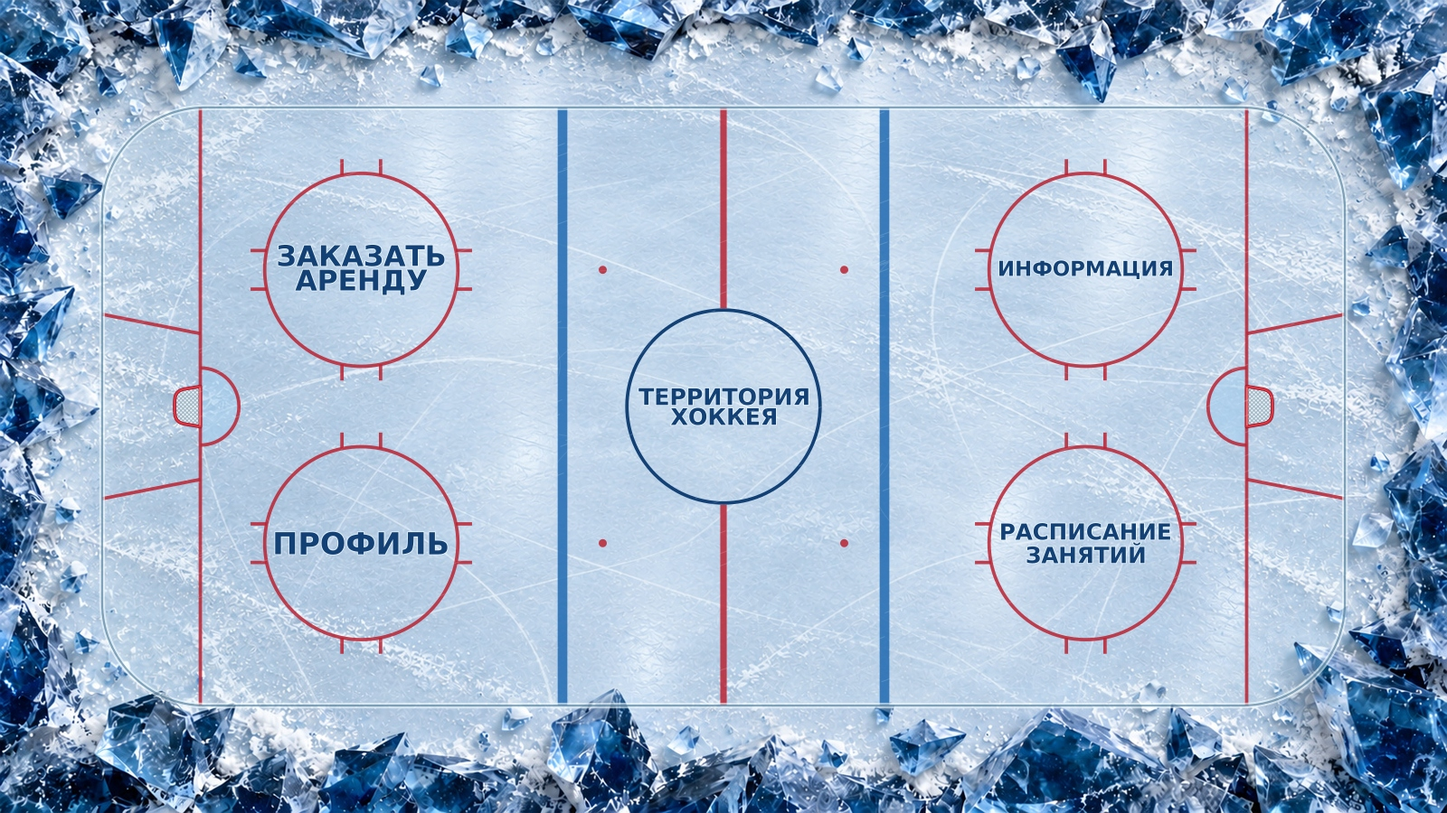
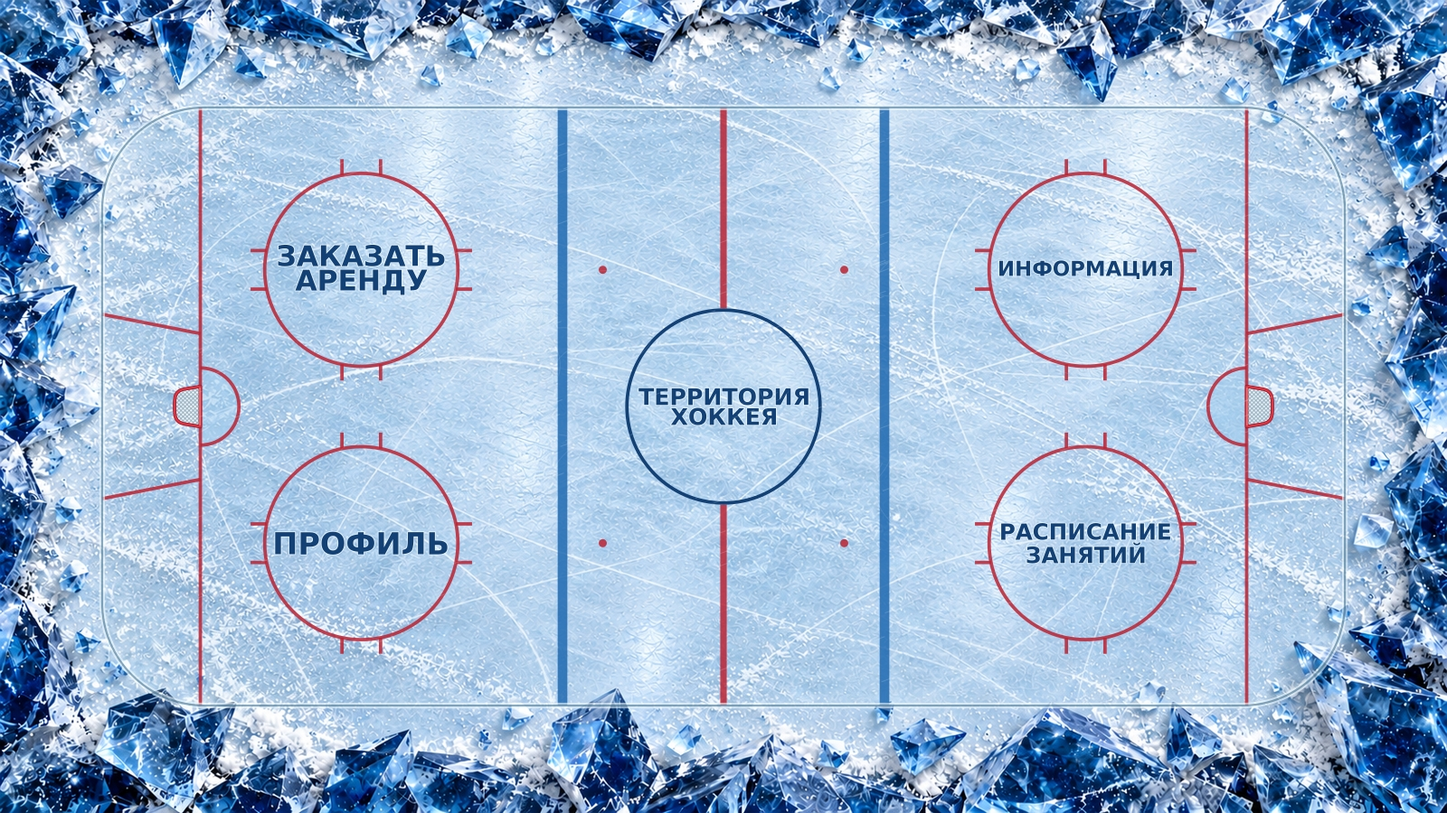
Finish hockey menu with club emblems, photo sticks and smoother rendering

diff --git a/COURSE_3/EP_TPaD_DB/App_C#/App/HeaderDrawing.cs b/COURSE_3/EP_TPaD_DB/App_C#/App/HeaderDrawing.cs
@@ -6,10 +6,17 @@ namespace LP_PopovD_App
     {
         internal static void Draw(Graphics g)
         {
+            // Эмблемы и флаги лежат на одной горизонтальной оси (Y = 60).
+            string[] left = { "Salavat", "Tolpar", "Agidel", "Astra", "Azamatov" };
+            string[] right = { "Cska", "Ska", "Spartak", "Avangard", "AkBars" };
+            for (int i = 0; i < left.Length; i++)
+            {
+                DrawClub(g, left[i], 112 + i * 110);
+                DrawClub(g, right[i], 1048 + i * 110);
+            }
             DrawFlag(g, new RectangleF(632, 28, 106, 64), true);
             DrawFlag(g, new RectangleF(862, 28, 106, 64), false);
-            DrawStick(g, false);
-            DrawStick(g, true);
+            DrawSticks(g);
             using Font title = new("Segoe UI", 42, FontStyle.Bold, GraphicsUnit.Pixel);
             using StringFormat format = new() { Alignment = StringAlignment.Center, LineAlignment = StringAlignment.Center };
             using SolidBrush halo = new(Color.FromArgb(200, 239, 250, 255));
@@ -55,28 +62,42 @@ namespace LP_PopovD_App
             g.DrawRectangle(border, r.X, r.Y, r.Width, r.Height);
         }
 
-        private static void DrawStick(Graphics g, bool mirrored)
+        private static void DrawClub(Graphics g, string name, float centerX)
         {
+            RectangleF plate = new(centerX - 45, 15, 90, 90);
+            using SolidBrush shadow = new(Color.FromArgb(28, 15, 51, 77));
+            using SolidBrush frost = new(Color.FromArgb(236, 250, 253, 255));
+            using Pen border = new(Color.FromArgb(150, 148, 181, 202), 0.8f);
+            g.FillEllipse(shadow, plate.X + 1, plate.Y + 3, plate.Width, plate.Height);
+            g.FillEllipse(frost, plate);
+            g.DrawEllipse(border, plate);
             GraphicsState state = g.Save();
-            if (mirrored) { g.TranslateTransform(1600, 0); g.ScaleTransform(-1, 1); }
-            // Рукоятка сверху, перо снизу; пересекаются именно нижние перья.
-            using Pen shaft = new(Color.FromArgb(30, 42, 52), 5) { StartCap = LineCap.Round, EndCap = LineCap.Round };
-            using Pen edge = new(Color.FromArgb(137, 158, 171), 1);
-            g.DrawLine(shaft, 774, 22, 808, 91);
-            g.DrawLine(edge, 772.7f, 22, 806.7f, 91);
-            using Pen tape = new(Color.FromArgb(224, 233, 239), 1.5f);
-            for (int i = 0; i < 6; i++)
-            {
-                float y = 26 + i * 2.8f, x = 774 + (y - 22) * 34 / 69;
-                g.DrawLine(tape, x - 2, y + 1, x + 2, y - 1);
-            }
-            using GraphicsPath blade = new();
-            blade.AddPolygon(new[] { new PointF(806, 86), new PointF(813, 94),
-                new PointF(783, 108), new PointF(777, 107), new PointF(776, 101) });
-            using SolidBrush rubber = new(Color.FromArgb(23, 34, 43));
-            g.FillPath(rubber, blade);
-            g.DrawPath(edge, blade);
+            using GraphicsPath clip = new();
+            clip.AddEllipse(plate.X + 4, plate.Y + 4, plate.Width - 8, plate.Height - 8);
+            g.SetClip(clip, CombineMode.Intersect);
+            DrawImageFit(g, ArtworkResources.Get(name), new RectangleF(centerX - 39, 21, 78, 78));
             g.Restore(state);
+        }
+
+        private static void DrawSticks(Graphics g)
+        {
+            // Готовая фотография настоящей клюшки. Отражённая пара соприкасается перьями снизу.
+            Image stick = ArtworkResources.Get("HockeyStick");
+            RectangleF bounds = new(750, 8, 100, 100);
+            DrawImageFit(g, stick, bounds);
+            GraphicsState state = g.Save();
+            g.TranslateTransform(1600, 0);
+            g.ScaleTransform(-1, 1);
+            DrawImageFit(g, stick, bounds);
+            g.Restore(state);
+        }
+
+        private static void DrawImageFit(Graphics g, Image image, RectangleF bounds)
+        {
+            float scale = Math.Min(bounds.Width / image.Width, bounds.Height / image.Height);
+            float width = image.Width * scale, height = image.Height * scale;
+            g.DrawImage(image, bounds.X + (bounds.Width - width) / 2,
+                bounds.Y + (bounds.Height - height) / 2, width, height);
         }
     }
 }

diff --git a/COURSE_3/EP_TPaD_DB/App_C#/App/Form1.cs b/COURSE_3/EP_TPaD_DB/App_C#/App/Form1.cs
@@ -20,13 +20,7 @@ namespace LP_PopovD_App
             DoubleBuffered = true;
             KeyPreview = true;
             SetStyle(ControlStyles.ResizeRedraw, true);
-            using Stream? stream = typeof(Form1).Assembly
-                .GetManifestResourceStream("LP_PopovD_App.IceFrame.jpg");
-            if (stream != null)
-            {
-                using Image image = Image.FromStream(stream);
-                iceArtwork = new Bitmap(image);
-            }
+            iceArtwork = new Bitmap(ArtworkResources.Get("IceFrame"));
             ClearSceneCache();
             LayoutMenuButtons();
         }
@@ -66,13 +60,20 @@ namespace LP_PopovD_App
 
             if (sceneCache == null)
             {
-                sceneCache = new Bitmap(ClientSize.Width, ClientSize.Height);
+                // Сглаживание применяется в окне, а не только к файлу экспорта.
+                sceneCache = new Bitmap(ClientSize.Width * 2, ClientSize.Height * 2);
                 using Graphics g = Graphics.FromImage(sceneCache);
+                g.ScaleTransform(2, 2);
                 g.Clear(Color.FromArgb(225, 241, 250));
                 SceneDrawing.Draw(g, ClientSize, iceArtwork, menuOpened);
             }
-            graphics.DrawImage(sceneCache,
-                new Rectangle(Point.Empty, sourceBounds.Size), sourceBounds, GraphicsUnit.Pixel);
+            GraphicsState state = graphics.Save();
+            graphics.InterpolationMode = InterpolationMode.HighQualityBicubic;
+            graphics.PixelOffsetMode = PixelOffsetMode.HighQuality;
+            graphics.DrawImage(sceneCache, new Rectangle(Point.Empty, sourceBounds.Size),
+                new Rectangle(sourceBounds.X * 2, sourceBounds.Y * 2,
+                    sourceBounds.Width * 2, sourceBounds.Height * 2), GraphicsUnit.Pixel);
+            graphics.Restore(state);
         }
 
         private void ClearSceneCache()

diff --git a/COURSE_3/EP_TPaD_DB/App_C#/App/Program.cs b/COURSE_3/EP_TPaD_DB/App_C#/App/Program.cs
@@ -14,16 +14,23 @@ namespace LP_PopovD_App
                 int width = args.Length >= 3 ? int.Parse(args[2]) : 15360;
                 if (width < 960 || width > 15360)
                     throw new ArgumentOutOfRangeException(nameof(width), "Ширина: от 960 до 15360 пикселей.");
-                using Stream stream = typeof(Program).Assembly.GetManifestResourceStream("LP_PopovD_App.IceFrame.jpg")!;
-                using Image ice = Image.FromStream(stream);
-                using Bitmap artwork = SceneDrawing.Render(new Size(width, width * 9 / 16), ice, args[0] == "--export-menu");
+                using Bitmap artwork = SceneDrawing.Render(new Size(width, width * 9 / 16),
+                    ArtworkResources.Get("IceFrame"), args[0] == "--export-menu");
+                if (string.Equals(Path.GetExtension(args[1]), ".png", StringComparison.OrdinalIgnoreCase))
+                {
+                    artwork.Save(Path.GetFullPath(args[1]), ImageFormat.Png);
+                    ArtworkResources.Dispose();
+                    return;
+                }
                 ImageCodecInfo jpeg = ImageCodecInfo.GetImageEncoders().First(c => c.MimeType == "image/jpeg");
                 using EncoderParameters settings = new(1);
-                settings.Param[0] = new EncoderParameter(System.Drawing.Imaging.Encoder.Quality, 98L);
+                settings.Param[0] = new EncoderParameter(System.Drawing.Imaging.Encoder.Quality, 100L);
                 artwork.Save(Path.GetFullPath(args[1]), jpeg, settings);
+                ArtworkResources.Dispose();
                 return;
             }
             Application.Run(new Form1());
+            ArtworkResources.Dispose();
         }
     }
 }

diff --git a/COURSE_3/EP_TPaD_DB/App_C#/App/RinkMenuButton.cs b/COURSE_3/EP_TPaD_DB/App_C#/App/RinkMenuButton.cs
@@ -49,8 +49,20 @@ namespace LP_PopovD_App
                 using SolidBrush background = new(Parent?.BackColor ?? Color.FromArgb(225, 241, 250));
                 g.FillRectangle(background, ClientRectangle);
             }
-            g.SmoothingMode = SmoothingMode.AntiAlias;
-            DrawButton(g, hovered, pressed, Focused && ShowFocusCues);
+            if (Width < 1 || Height < 1)
+                return;
+            using Bitmap layer = new(Width * 2, Height * 2,
+                System.Drawing.Imaging.PixelFormat.Format32bppPArgb);
+            using (Graphics detail = Graphics.FromImage(layer))
+            {
+                detail.ScaleTransform(2, 2);
+                detail.SmoothingMode = SmoothingMode.AntiAlias;
+                detail.PixelOffsetMode = PixelOffsetMode.HighQuality;
+                DrawButton(detail, hovered, pressed, Focused && ShowFocusCues);
+            }
+            g.InterpolationMode = InterpolationMode.HighQualityBicubic;
+            g.PixelOffsetMode = PixelOffsetMode.HighQuality;
+            g.DrawImage(layer, ClientRectangle);
         }
 
         protected virtual void DrawButton(Graphics g, bool hovered, bool pressed, bool focused)

diff --git a/COURSE_3/EP_TPaD_DB/App_C#/App/ArtworkResources.cs b/COURSE_3/EP_TPaD_DB/App_C#/App/ArtworkResources.cs
@@ -1,0 +1,31 @@
+using System.Drawing.Imaging;
+
+namespace LP_PopovD_App
+{
+    internal static class ArtworkResources
+    {
+        private static readonly Dictionary<string, Bitmap> images = new();
+
+        internal static Bitmap Get(string name)
+        {
+            if (images.TryGetValue(name, out Bitmap? image))
+                return image;
+            using Stream stream = typeof(ArtworkResources).Assembly
+                .GetManifestResourceStream("LP_PopovD_App.Assets." + name + ".png")
+                ?? throw new FileNotFoundException("Изображение не включено в проект: " + name);
+            using Image original = Image.FromStream(stream);
+            image = new Bitmap(original.Width, original.Height, PixelFormat.Format32bppPArgb);
+            using (Graphics g = Graphics.FromImage(image))
+                g.DrawImageUnscaled(original, 0, 0);
+            images.Add(name, image);
+            return image;
+        }
+
+        internal static void Dispose()
+        {
+            foreach (Bitmap image in images.Values)
+                image.Dispose();
+            images.Clear();
+        }
+    }
+}

diff --git a/COURSE_3/EP_TPaD_DB/App_C#/README.md b/COURSE_3/EP_TPaD_DB/App_C#/README.md
@@ -1,101 +1,84 @@
 # «ТЕРРИТОРИЯ ХОККЕЯ» — приложение учебной практики
 
-Проект Windows Forms на C# / .NET 10. Все файлы приложения размещаются в
-`COURSE_3/EP_TPaD_DB/App_C#`. Материалы БД хранятся отдельно.
+Windows Forms, C# / .NET 10. Все изменения приложения сохраняются в
+`COURSE_3/EP_TPaD_DB/App_C#`.
 
-![Стартовый экран](Entry_Preview.jpg)
+![Стартовый экран](Entry_Preview.png)
 
 ## Стартовый экран
 
-- Слева — чёрная шайба **ВОЙТИ**, справа — **ЗАРЕГИСТРИРОВАТЬСЯ**.
-- Снизу по центру — третья шайба **РАСПИСАНИЕ**.
-- Все подписи белые, в одну строку. Контуры букв вписываются в лицо шайбы с минимальным безопасным отступом: длинная надпись имеет меньшую высоту, сохраняя максимальную ширину.
-- Сверху по центру — **ТЕРРИТОРИЯ ХОККЕЯ**. Над названием — небольшие флаги Башкортостана и России, между ними — две клюшки, пересекающиеся нижними перьями.
-- Шайбы имеют рифлёный торец, мелкую фактуру резины, потёртости, блик на кромке и мягкую тень. Реакции на наведение, фокус и нажатие сохранены; область нажатия круглая.
-- Сохранены голубоватый лёд, следы коньков и кристаллическое обрамление из прежнего проекта.
+Слева — «ВОЙТИ», справа — «ЗАРЕГИСТРИРОВАТЬСЯ», снизу по центру — «РАСПИСАНИЕ».
+Белые подписи максимально вписаны в ширину чёрных шайб; длинная подпись остаётся
+в одну строку. У шайб есть фактура резины, потёртости, рифлёный торец и тени.
 
-Кнопки пока сохраняют поведение прежнего прототипа: открывают существующее главное меню.
-При выборе «РАСПИСАНИЕ» фокус устанавливается на «РАСПИСАНИЕ ЗАНЯТИЙ».
-**Проверка логина, регистрация пользователей, подключение БД и загрузка расписания ещё не реализованы.**
-Это изменение оформления, а не готовая система авторизации.
+Над заголовком расположена одна строка с общей осью по центрам эмблем и флагов.
+Порядок слева направо:
 
-![Главное меню](Menu_Preview.jpg)
+**Салават Юлаев · Толпар · Агидель · Астра · школа имени М. М. Азаматова ·
+флаг Башкортостана · клюшки · флаг России · ЦСКА · СКА · Спартак · Авангард · Ак Барс.**
 
-## Разметка хоккейного поля
+Эмблемы загружены из источников клубов и хоккейных организаций, не перерисованы.
+Цвета и пропорции сохранены. Светлые круглые подложки улучшают читаемость на льду.
+Вместо прежней рисованной схемы использована фотография настоящей клюшки
+с прозрачным фоном: две зеркальные копии пересекаются нижними перьями.
+Изображения встроены в приложение, поэтому интернет при запуске не требуется.
+Источники, размеры и сведения об использовании перечислены в [ASSETS.md](ASSETS.md).
 
-Сохранены ворота с сетками, площади ворот, вратарские трапеции, четыре круга
-вбрасывания с примыкающими усами и центральный круг без красной линии внутри.
-Краска стала слегка прозрачной; поверх неё добавлены тонкие прорези и дуги от
-коньков, чтобы разметка воспринималась под слоем льда. Толщина линий и геометрия
-масштабируются вместе с площадкой.
+Кнопки сохраняют поведение учебного прототипа: открывают существующее главное меню;
+«РАСПИСАНИЕ» устанавливает фокус на «РАСПИСАНИЕ ЗАНЯТИЙ».
+Авторизация, регистрация, загрузка расписания и подключение БД пока не реализованы.
 
-## Качество и изображения 16K
+![Главное меню](Menu_Preview.png)
 
-- [Entry_16K.jpg](Entry_16K.jpg) — стартовый экран **15360×8640**.
-- [Menu_16K.jpg](Menu_16K.jpg) — главное меню **15360×8640**.
-- `Entry_Preview.jpg` и `Menu_Preview.jpg` — версии 1600×900 для быстрого просмотра.
+## Изображения и качество
 
-Шайбы, надписи, флаги, клюшки и разметка отрисованы средствами C# непосредственно
-в целевом разрешении. Исходный фон `App/Assets/IceFrame.jpg` имеет размер
-1672×941 и масштабируется с качественной бикубической интерполяцией. Экспорт
-в 16K не добавляет к исходной фотографии льда настоящие новые детали.
-Для размещения в репозитории изображения 16K сохранены как прогрессивные JPEG
-с оптимизацией: качество 87 для стартового экрана и 85 для главного меню.
-Это уменьшает объём до примерно 12 МБ на изображение без изменения разрешения.
-Команды экспорта ниже позволяют получить локальные версии с качеством JPEG 98.
-Изображения используют ту же отрисовку, что и приложение; это экспорт сцены,
-а не снимки запущенного окна Windows. В Linux используется доступная замена
-Segoe UI, поэтому формы букв могут немного отличаться от Windows.
+| Файл | Размер | Формат |
+|---|---|---|
+| Entry_Preview.png, Menu_Preview.png | 1600 × 900 | PNG без потерь |
 
-Окно рисуется в разрешении текущего экрана. Файлы 16K не загружаются в него
-как огромный фон. Фоновая сцена кэшируется до изменения размеров или экрана.
+PNG-превью сохраняют пиксели отрисованной сцены без JPEG-артефактов вокруг букв,
+линий и эмблем. JPEG небольших превью оставлены для совместимости.
+Экспорт PNG до 15360 × 8640 доступен из приложения командами ниже;
+крупные экспортированные изображения не нужны для запуска и не включены в репозиторий.
+В приложении используется новый фон `App/Assets/IceFrame.png`;
+сцена и интерактивные кнопки сглаживаются с двукратным разрешением по каждой оси.
+
+Фон восстановлен через ImageGen в прежнем ледяном стиле и сохранён без потерь.
+**Его исходный размер — 1672 × 941, а часть эмблем имеет 150–200 пикселей.**
+Контуры букв, шайб, флагов и разметки отрисовываются непосредственно в целевом
+разрешении, а растровые изображения масштабируются. Поэтому экспорт 16К
+не означает, что каждая деталь фона и каждая эмблема имеют нативное разрешение 16К.
+
+Изображения получены общей отрисовкой приложения. Это экспорт сцены,
+а не снимок окна Windows. В Linux используется замена Segoe UI;
+в Windows форма букв может немного отличаться.
 
 ## Запуск в Visual Studio
 
-1. В GitHub Desktop нажми **Fetch origin → Pull origin**.
-2. Открой [App/LP_PopovD_App.slnx](App/LP_PopovD_App.slnx) в **Visual Studio 2026**.
-3. Нужны .NET 10 и рабочая нагрузка **«Разработка классических приложений .NET»**.
-4. Нажми **F5**.
+1. В GitHub Desktop нажать **Fetch origin → Pull origin**.
+2. Открыть [App/LP_PopovD_App.slnx](App/LP_PopovD_App.slnx) в Visual Studio 2026.
+3. Установить .NET 10 и рабочую нагрузку **«Разработка классических приложений .NET»**.
+4. Нажать **F5**.
 
-**F11** переключает полный экран и окно, **Esc** закрывает приложение.
-**Tab** переключает кнопки, **Enter / пробел** активируют выбранную кнопку.
+F11 — переключение полного экрана и окна, Esc — выход, Tab — выбор кнопки,
+Enter / пробел — нажатие.
 
-Для повторного экспорта в Windows из папки `App`:
-
-```powershell
-dotnet run -c Release -- --export-entry ..\Entry_16K.jpg
-dotnet run -c Release -- --export-menu ..\Menu_16K.jpg
-```
-
-Третий аргумент задаёт ширину от 960 до 15360 пикселей, например:
+Повторный экспорт PNG без потерь из папки `App`:
 
 ```powershell
-dotnet run -c Release -- --export-entry ..\Entry_Preview.jpg 1600
+dotnet run -c Release -- --export-entry ..\Entry_16K.png 15360
+dotnet run -c Release -- --export-menu ..\Menu_16K.png 15360
 ```
 
-Экспорт выполняется небольшими плитками, чтобы ограничить временные буферы.
-Итоговое изображение 16K занимает около 380 МиБ памяти без учёта накладных расходов.
-
-## Основные файлы
-
-| Файл | Назначение |
-|---|---|
-| `App/Form1.cs` | Расположение кнопок, смена экранов, полный экран, кэш сцены |
-| `App/Form1.Designer.cs` | Три стартовые кнопки и четыре кнопки главного меню |
-| `App/EntryDrawing.cs` | Стартовая сцена и реалистичные шайбы |
-| `App/HeaderDrawing.cs` | Заголовок, флаги и скрещённые клюшки |
-| `App/SceneDrawing.cs` | Общая отрисовка окна и экспорт изображений |
-| `App/PuckButton.cs` | Интерактивная кнопка-шайба |
-| `App/RinkDrawing.cs` | Разметка, ворота, трапеции и следы поверх линий |
-| `App/RinkTypography.cs` | Подгонка букв под круг |
-| `App/RinkMenuButton.cs` | Круглая область нажатия и реакции на ввод |
-| `App/Program.cs` | Запуск приложения и команды экспорта |
-| `App/Assets/IceFrame.jpg` | Исходная фактура льда и обрамление |
+Ширина задаётся от 960 до 15360 пикселей; высота вычисляется для соотношения 16:9.
+Расширение `.png` выбирает PNG без потерь, `.jpg` — JPEG с качеством 100.
+Экспорт в 16К использует плитки, итоговый буфер занимает около 380 МиБ.
+Окно не загружает файлы 16К как фон, а рисует интерфейс под текущий экран.
 
 ## Проверка
 
-Release-сборка выполнена для Windows в Linux с `EnableWindowsTargeting=true`.
-Результат: **0 ошибок, 0 предупреждений**. Проверены экспорт 1600×900,
-компоновка 960×600 и изображения 15360×8640.
-Окно WinForms в Windows в этой среде не запускалось. Экспорт проверяется отдельно
-через общие классы отрисовки с System.Drawing; они не требуют запуска формы.
+Release-сборка для Windows проверена с `EnableWindowsTargeting=true`:
+**0 ошибок, 0 предупреждений**. Общая отрисовка выполнена и просмотрена
+в 1600 × 900 и при минимальном размере окна 960 × 600.
+Проверены файлы PNG 3840 × 2160 и 15360 × 8640, загрузка всех встроенных изображений.
+Окно WinForms в Windows в этой среде не запускалось.

diff --git a/COURSE_3/EP_TPaD_DB/App_C#/ASSETS.md b/COURSE_3/EP_TPaD_DB/App_C#/ASSETS.md
@@ -1,0 +1,27 @@
+# Источники изображений
+
+Изображения для учебного C#-приложения. Названия и эмблемы принадлежат их правообладателям.
+Цвета и пропорции эмблем сохранены; растры переведены в PNG без потерь.
+Все изображения встроены в сборку как EmbeddedResource.
+
+| Файл в App/Assets | Источник | Исходный размер |
+|---|---|---|
+| Salavat.png | [ХК «Салават Юлаев»](https://hcsalavat.ru/upload/resize_cache/webp/iblock/07c/vrk4thzze93p58w33ky9vm7ag77q6xmh.webp) | 200 × 200 |
+| Tolpar.png | [ХК «Салават Юлаев»: «Толпар»](https://hcsalavat.ru/upload/iblock/472/5mnej9gjcxe9bz20fik3yumvwy73j1k1.png) | 200 × 200 |
+| Agidel.png | [ХК «Салават Юлаев»: «Агидель»](https://hcsalavat.ru/upload/iblock/4c1/miwwv9b8yqb5ii7hclw541b17siwczws.png) | 200 × 200 |
+| Astra.png | [ФХР, АНО ДОСШ «Астра»](https://www.filial.fhr.ru/schools/ano-dossh-astra-7471714/), [изображение](https://img.fhr.ru/schools/00/8c/7471714.webp) | 978 × 978 |
+| Azamatov.png | [Ассоциация МКЦ УЗС, школа им. М. М. Азаматова](https://uralhockey.ru/sport/club/38), [изображение](https://uralhockey.ru/sport/images/clubs/38_4e4b754649e8d0da307b1ea56bfae383.jpg) | 150 × 150 |
+| Cska.png | [Официальный сайт ЦСКА](https://cska-hockey.ru/local/templates/cska/img/logo.svg) | SVG; PNG 1020 × 1024 |
+| Ska.png | [КХЛ](https://www.khl.ru/images/teams/ru/1436/24) | 200 × 200 |
+| Spartak.png | [КХЛ](https://www.khl.ru/images/teams/ru/1436/7) | 200 × 200 |
+| Avangard.png | [КХЛ](https://www.khl.ru/images/teams/ru/1436/34) | 200 × 200 |
+| AkBars.png | [ХК «Салават Юлаев»: эмблема «Ак Барса»](https://hcsalavat.ru/upload/iblock/917/z1adg8vng70cpa6qr5q5sieojw5lzin2.png) | 200 × 200 |
+| HockeyStick.png | [PNGimg.com — Hockey Stick glossy, ID 26544](https://pngimg.com/image/26544), [PNG](https://pngimg.com/uploads/hockey/hockey_PNG102.png) | 1110 × 1110 |
+| IceFrame.png | Восстановление исходного фона проекта встроенным ImageGen; запрос в IceFrame.prompt.txt | 1672 × 941 |
+
+Фотография клюшки: **PNGimg.com**, [CC BY-NC 4.0](https://pngimg.com/license).
+В приложении использованы две зеркальные копии исходного PNG с прозрачностью.
+Исходный SVG ЦСКА сохранён в `App/Assets/Originals/Cska.svg`.
+
+Некоторые эмблемы доступны только в небольшом растровом размере.
+Их увеличение не восстанавливает отсутствующие детали и не меняет подлинную эмблему.
